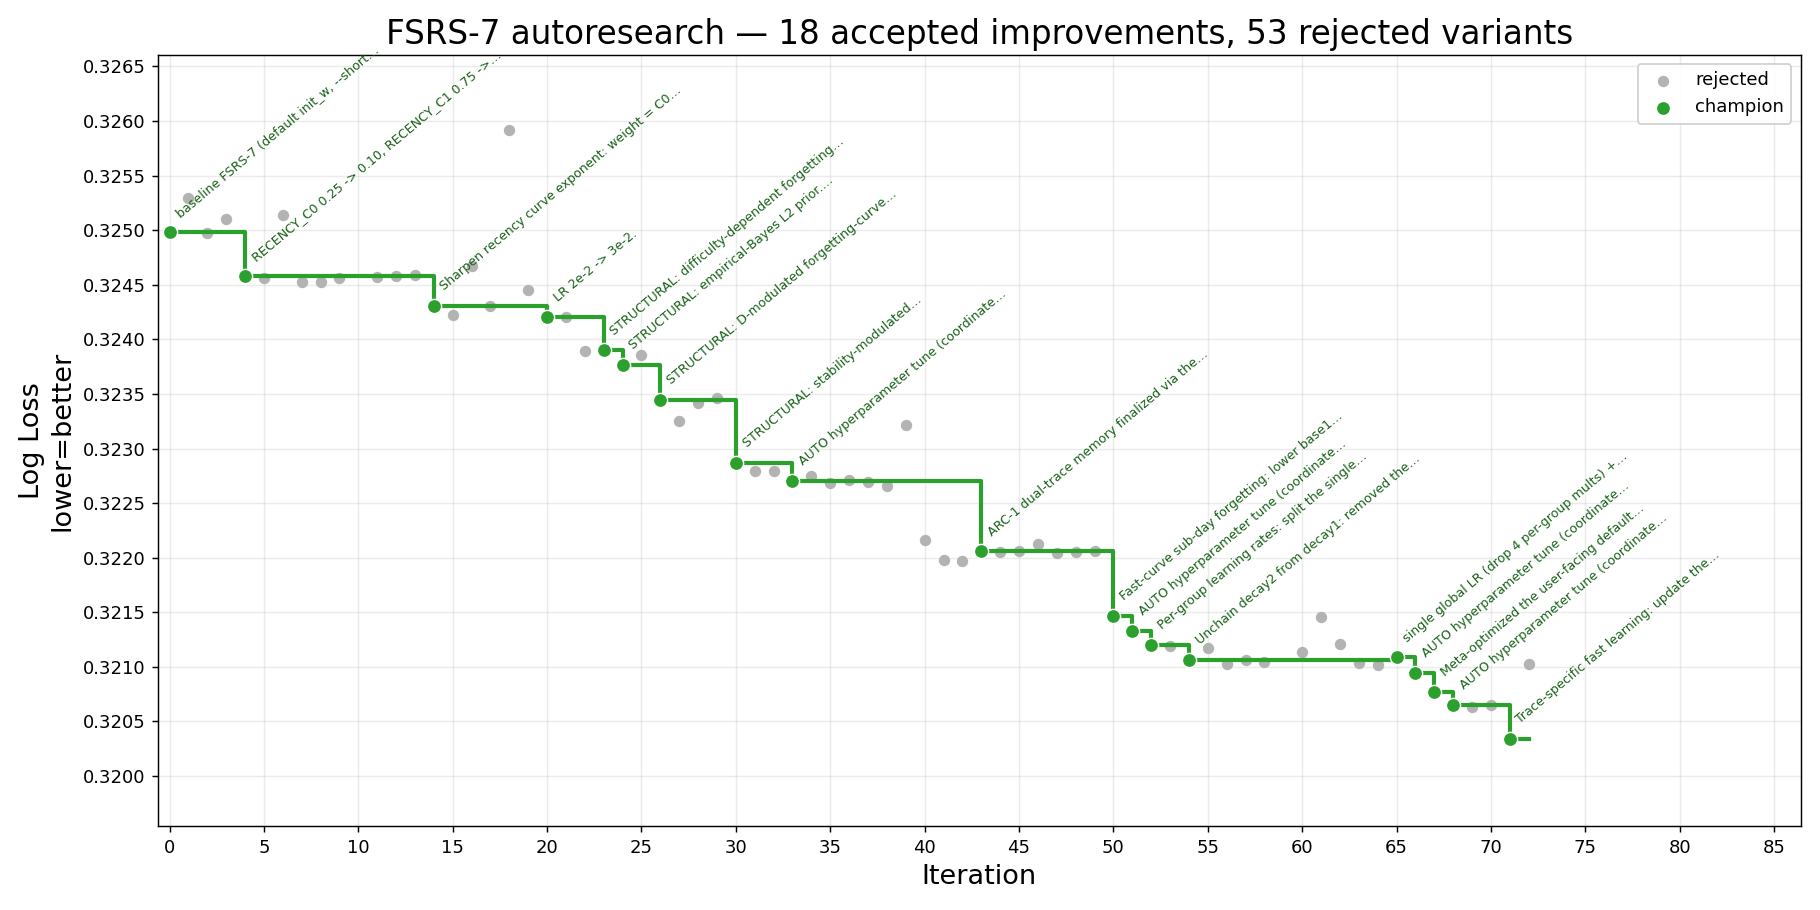
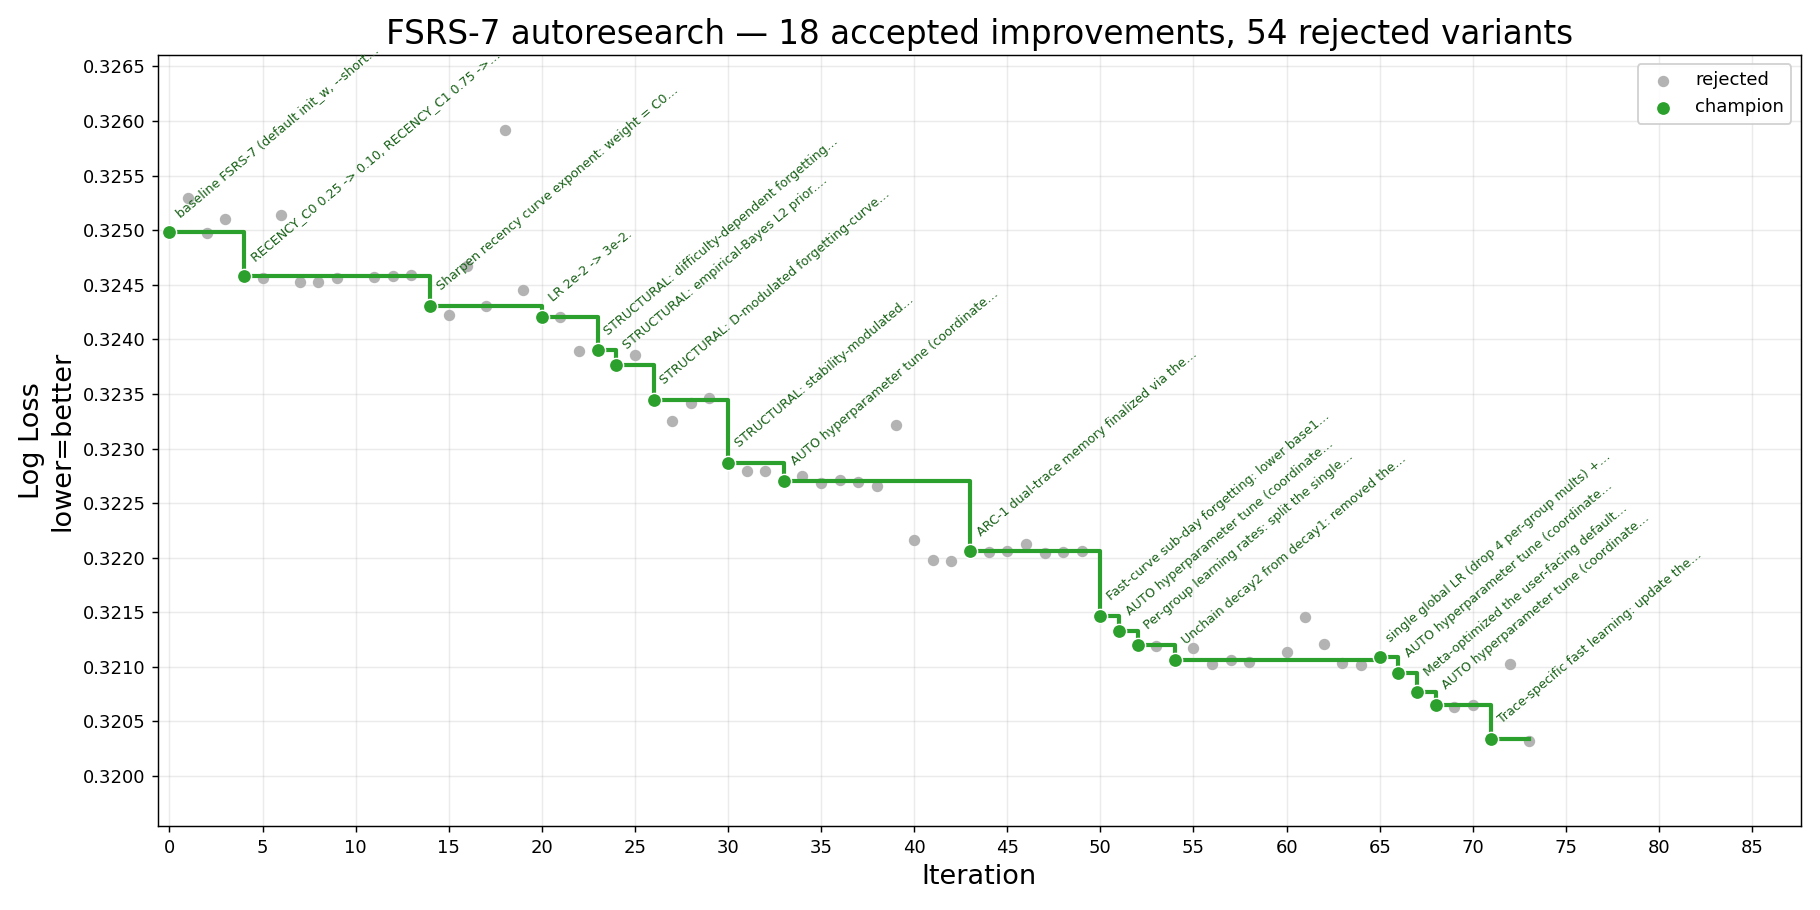
iter 73 rejected: hyperparameter auto-tune (no improvement >= 0.0001)
Automated coordinate-descent pass over LR / Adam betas / L2 strength / recency weighting / batch size. Best: LR 0.03->0.02, LL_by_user 0.32034 -> 0.32032 (+0.000020 < 0.0001 thresh). Reverted to champion.

diff --git a/result/history.md b/result/history.md
@@ -1,6 +1,6 @@
 # FSRS-7 autoresearch — iteration history
 
-_72 record(s). Generated from `history.jsonl` — do not edit by hand._
+_73 record(s). Generated from `history.jsonl` — do not edit by hand._
 
 | # | Time (UTC) | Thresh. | LL before | LL after | Δ LL | Cx before | Cx after | Δ Cx % | Status | Summary |
 |--:|---|---:|---:|---:|---:|---:|---:|---:|---|---|
@@ -76,3 +76,4 @@ _72 record(s). Generated from `history.jsonl` — do not edit by hand._
 | 70 | 2026-06-03T15:34:12 | 0.0001 | 0.32065 | 0.32065 | -0.00000 | 16,756 | 16,756 | +0.00% | rejected | Nudge the hardcoded fast_init_frac constant in fsrs7_init (global, 0-param): probed 0.8 -> 0.65 and 0.8 -> 0.9. Enzyme rebuild. |
 | 71 | 2026-06-03T15:43:55 | 0.0001 | 0.32065 | 0.32034 | +0.00031 | 16,756 | 16,795 | +0.23% | accepted | Trace-specific fast learning: update the fast trace s_fast from the FAST forgetting component recall r1 (new fsrs7_fast_component_recall helper) instead of the mixed-curve retention; the slow trace s still updates from the mixed retention. Formula-only, 0 params. Enzyme rebuild. |
 | 72 | 2026-06-03T15:53:23 | 0.0001 | 0.32034 | 0.32103 | -0.00069 | 16,795 | 16,833 | +0.23% | rejected | Trace-specific slow learning (mirror of iter-71): update the slow trace s from the SLOW forgetting component recall r2 (new fsrs7_slow_component_recall helper) instead of the mixed-curve retention; the fast trace s_fast still uses r1. fsrs7_step no longer computes the mixed retention. Formula-only, 0 params. Enzyme rebuild. |
+| 73 | 2026-06-03T16:28:43 | 0.0001 | 0.32034 | 0.32032 | +0.00002 | 16,795 | 16,795 | +0.00% | rejected | AUTO hyperparameter tune (coordinate descent over training hyperparameters (LR/betas/L2/recency C0+EXP/batch_size)): best candidate LR 0.03->0.02. |
